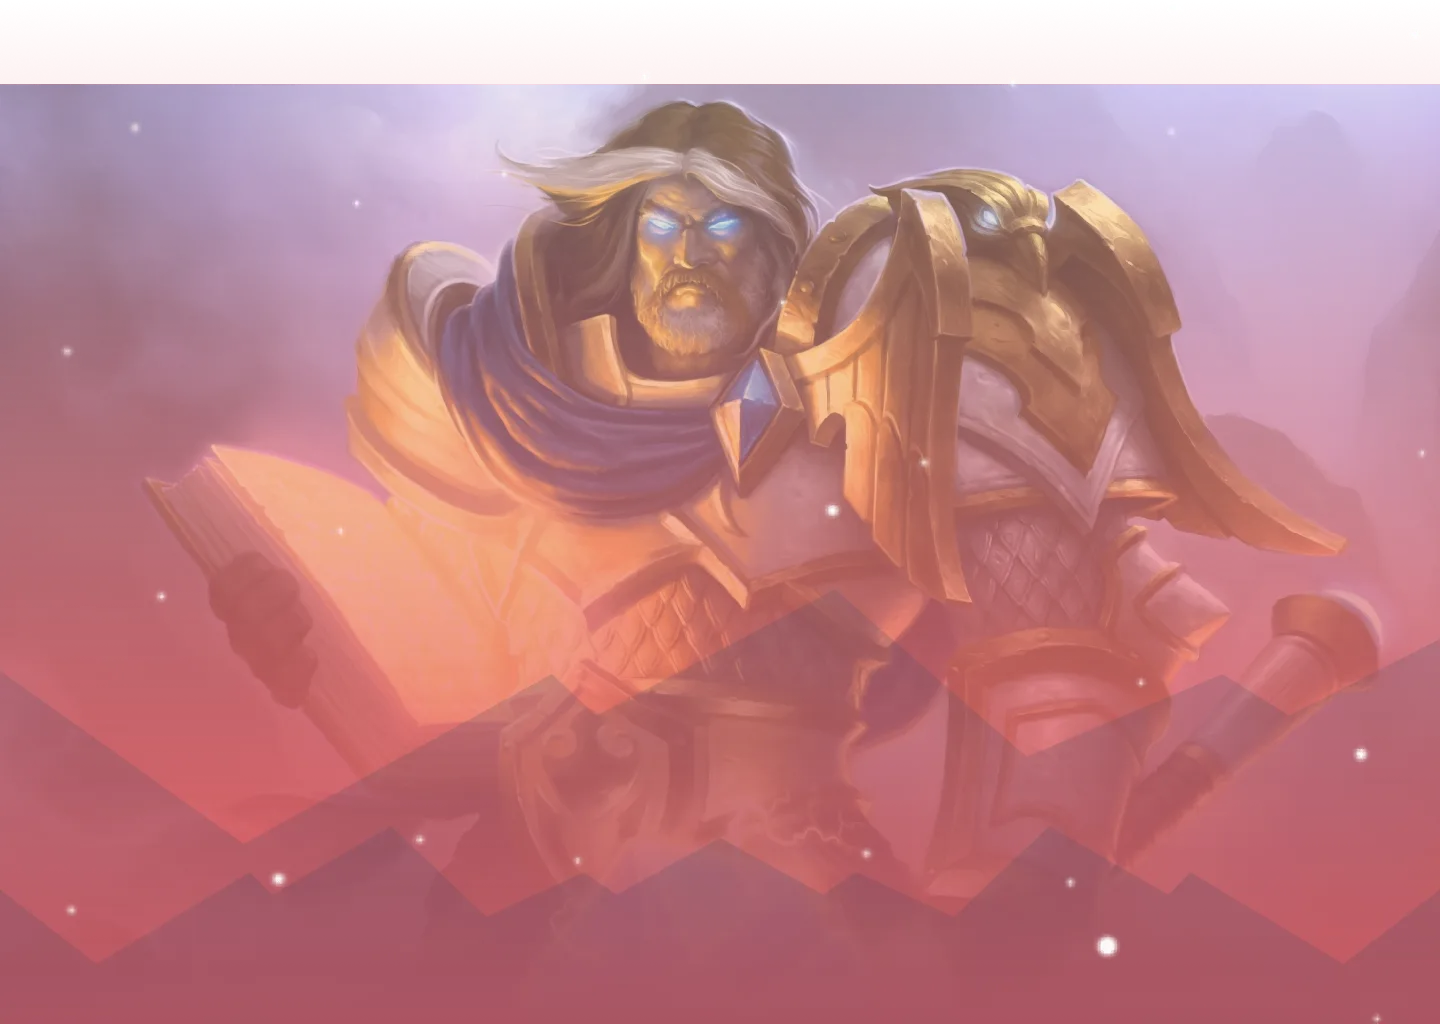
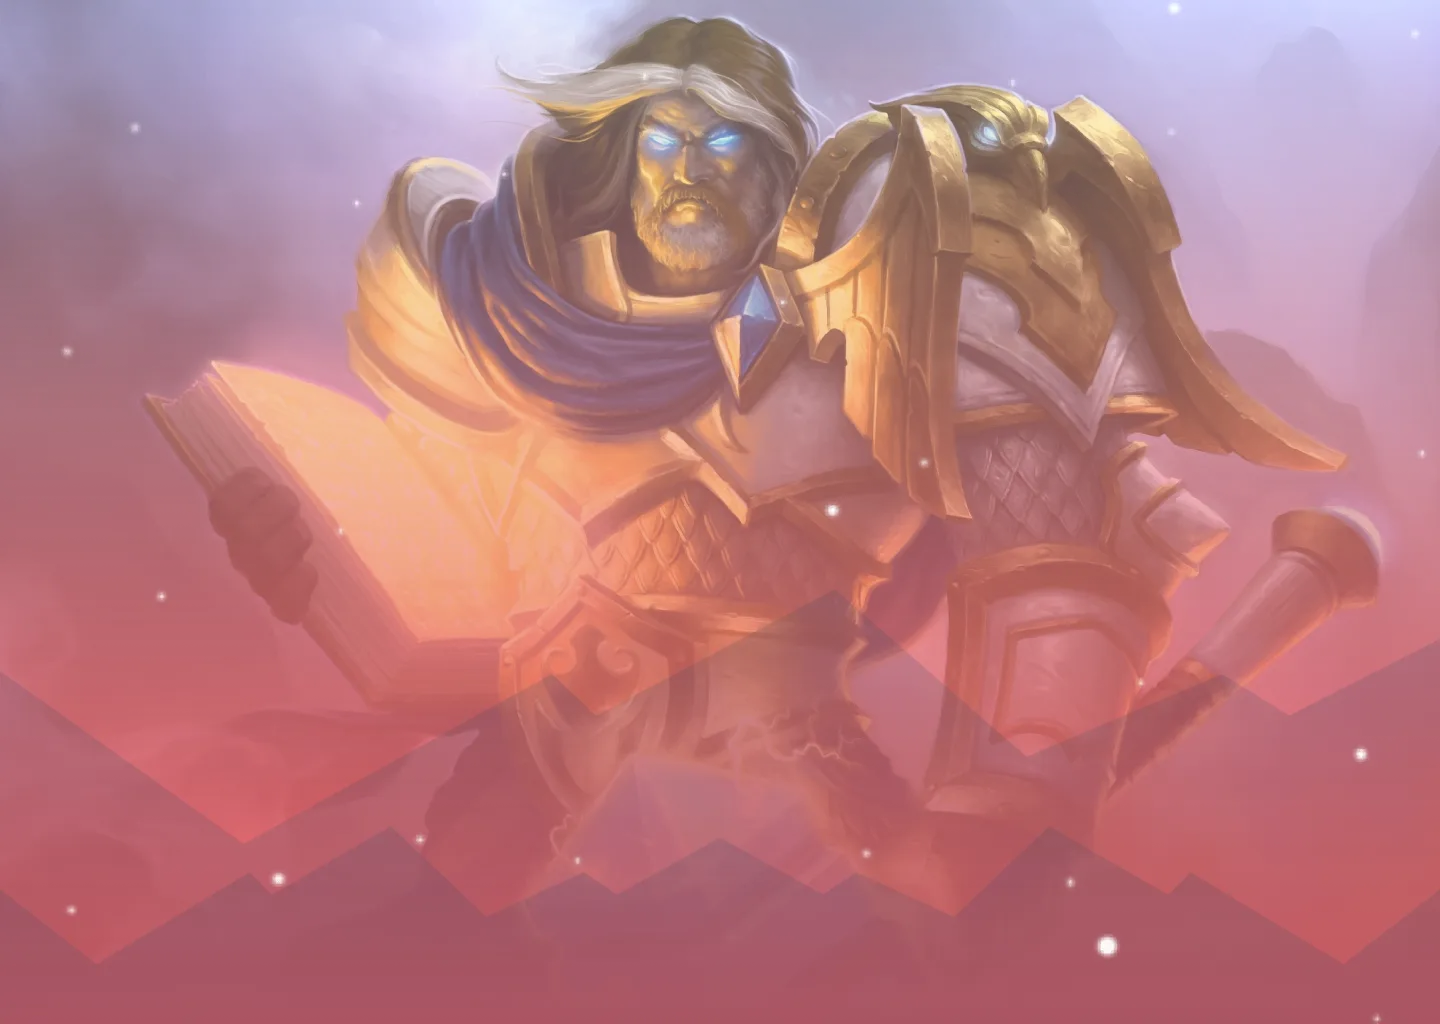
fix: fixed paladin background and homescreen scrollbar

diff --git a/src/app/page.tsx b/src/app/page.tsx
@@ -1,10 +1,10 @@
 'use client';
 import Image from 'next/image';
-import homepageLogo from 'public/homepage_logo 1_2023-07-21/homepage_logo 1@3x.webp';
-import Searchbar from './components/Searchbar/Searchbar';
-import HomeGrid from './components/HomeGrid/HomeGrid';
 import { useRouter } from 'next/navigation';
+import homepageLogo from 'public/homepage_logo 1_2023-07-21/homepage_logo 1@3x.webp';
 import { useEffect } from 'react';
+import HomeGrid from './components/HomeGrid/HomeGrid';
+import Searchbar from './components/Searchbar/Searchbar';
 
 export default function Home() {
   const router = useRouter();
@@ -18,8 +18,8 @@ export default function Home() {
     });
   }, []);
   return (
-    <main className="flex min-h-screen flex-col items-center bg-cover bg-homepageBackground">
-      <div className="m-8">
+    <main className="flex min-h-[91vh] justify-center flex-col items-center bg-cover bg-homepageBackground">
+      <div className="m-4">
         <Image
           src={homepageLogo}
           alt={'hearthstone'}

diff --git a/src/app/components/Navbar/Navbar.tsx b/src/app/components/Navbar/Navbar.tsx
@@ -62,7 +62,7 @@ export default function Navbar() {
         </button>
       </nav>
       {toggle && (
-        <div className="sm:hidden animate-open-menu  absolute top-20 bg-navbarColor w-full h-screen text-4xl flex flex-col items-center justify-center gap-24 origin-top left-0 z-30">
+        <div className="sm:hidden animate-open-menu  absolute top-20 bg-navbarColor w-full h-full text-4xl flex flex-col items-center justify-center gap-24 origin-top left-0 z-30">
           <button
             className=" font-montserrat hover:text-goldFont text-white underline underline-offset-8 "
             onClick={() => router.push('/')}

diff --git a/src/app/components/Filters/Filters.tsx b/src/app/components/Filters/Filters.tsx
@@ -476,7 +476,7 @@ export default function Filters({ cardClass, cards }: FilterProps) {
           </div>
         )}
       </div>
-      <div className="  max-sm:hidden flex flex-row w-full justify-around items-start  max-lg:gap-5"></div>
+      <div className="  max-sm:hidden absolute z-10 flex flex-row w-full justify-around items-start  max-lg:gap-5"></div>
       {/* Mana bar */}
       <div className="flex flex-row items-center gap-1 mx-20 max-lg:flex-col max-lg:gap-5 max-sm:hidden justify-center">
         <p className="text-cyan-400 text-xl font-outline-1">Mana</p>

diff --git a/src/app/components/ClassTopPage/ClassTopPage.tsx b/src/app/components/ClassTopPage/ClassTopPage.tsx
@@ -1,6 +1,6 @@
-'use client'
-import React, { useEffect, useState } from 'react';
+'use client';
 import Image from 'next/image';
+import { useEffect, useState } from 'react';
 import GoldButton from '../GoldButton/GoldButton';
 
 type props = {
@@ -84,7 +84,6 @@ export default function ClassTopPage({ cardClass }: props) {
   function handleToggle() {
     toggle ? setToggle(false) : setToggle(true);
   }
-
 
   // Dynamic import for image
   useEffect(() => {

diff --git a/src/app/favorites/page.tsx b/src/app/favorites/page.tsx
@@ -20,7 +20,7 @@ export default async function Favorites({ cardClass, cards }: props) {
       <h1 className=" max-sm:hidden font-aclonica z-10 mt-20 text-white sm:font-outline-4 sm:text-8xl text-shadow shadow-black text-5xl font-outline-1">
         FAVORITES
       </h1>
-      <Filters2 cardClass={cardClass} cards={res.data} />
+      <Filters2 cardClass={''} cards={res.data} />
     </div>
   );
 }
